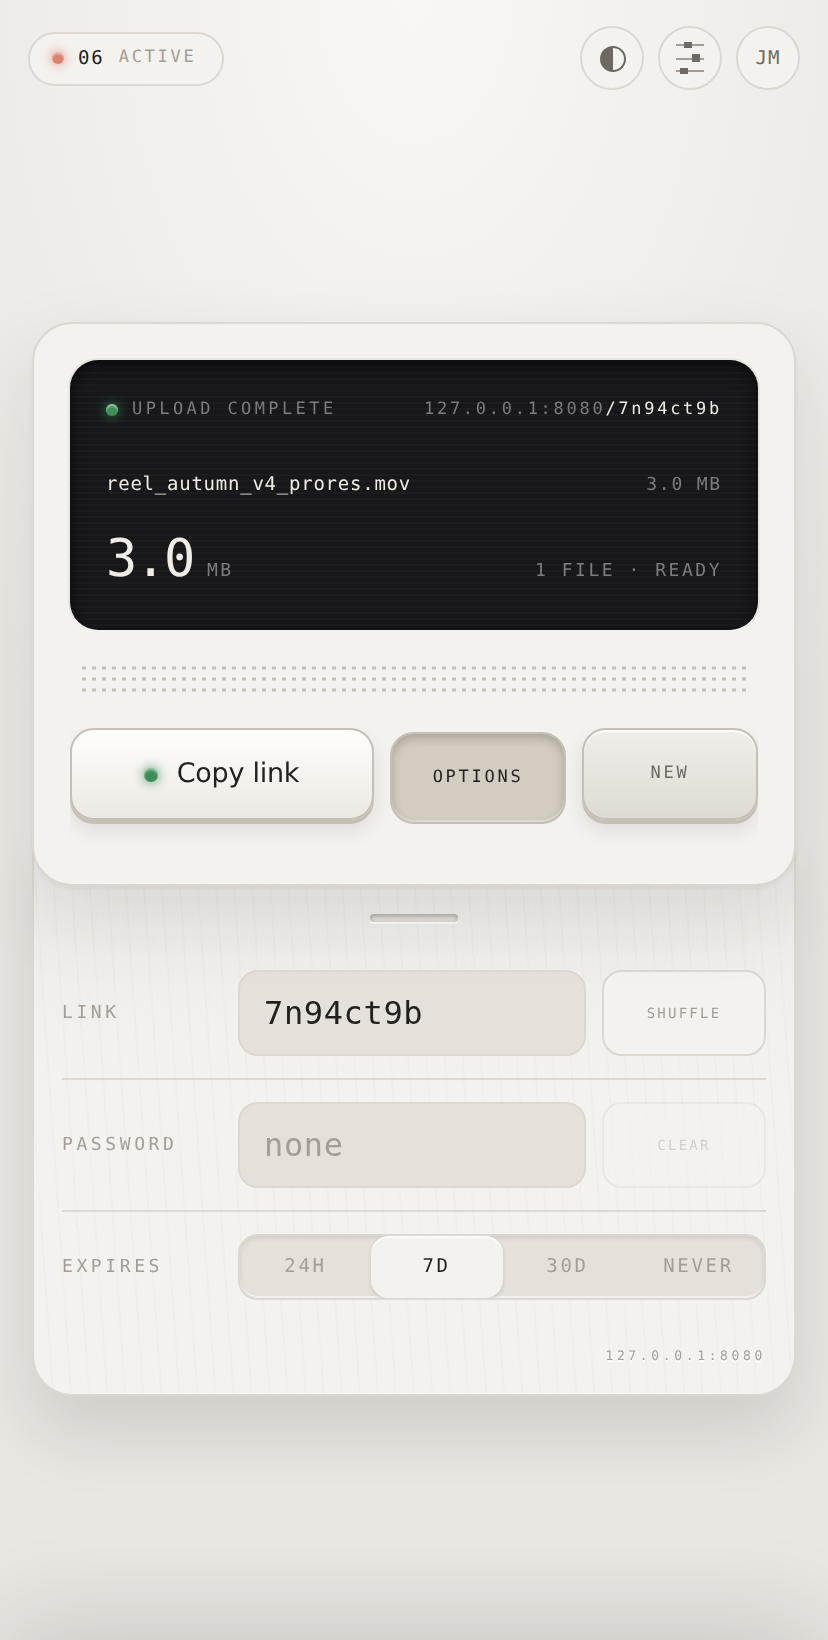
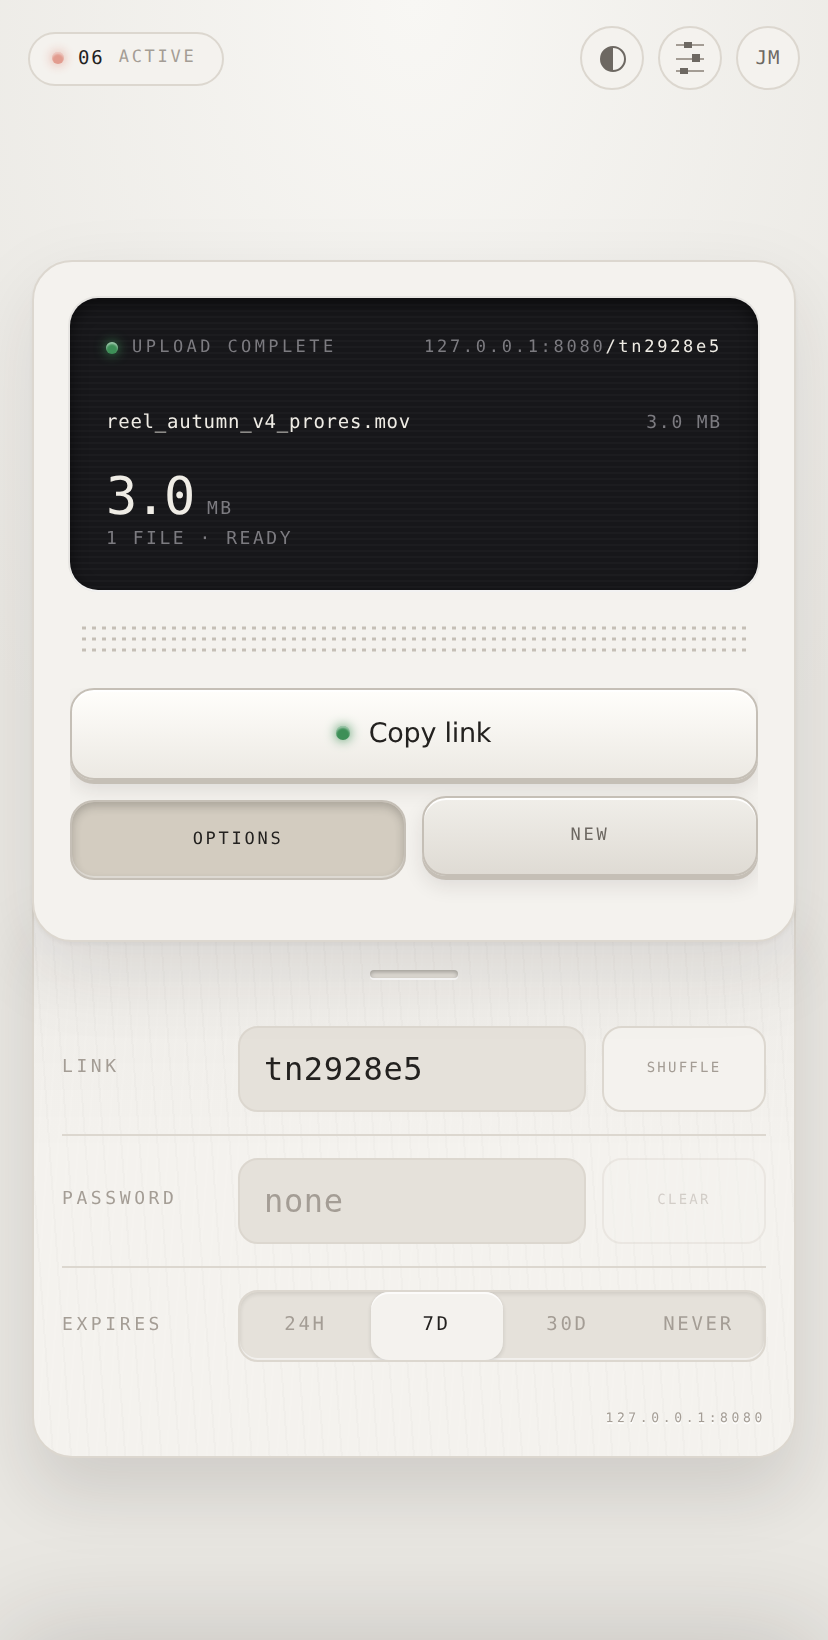
Fix five real mobile layout faults
A list that could not be reached. The transfers sheet's body is itself a
column flex container, so its children shrink by default — a list taller
than the sheet was being squeezed rather than scrolled, and .fret-list
clips its overflow to keep the row corners inside its radius, so the rows
that got squeezed out simply vanished. flex-shrink: 0 on the children
puts the height back, and min-height: 0 on the body lets it overflow
itself and scroll: with flex: 1 alone a flex item refuses to shrink below
its own content, so it never scrolls at all.

Two field sizes where there should have been one. The search field
carried its font-size in a style attribute, which no media query can
reach, so the field you are most likely to type into on a phone stayed
at 9.5px while the drawer's were at 16 — they looked unrelated, and this
one still triggered iOS's zoom-on-focus. It is a class now.

A key label cut off mid-word. A flex item will not shrink below its
content without min-width: 0, so the label pushed the key wider than its
share of the row and had the excess clipped square — "Waiting for u",
no ellipsis. And three keys abreast is a desktop row: at 393px the two
fixed 88px keys left the primary about 130px for a label that needs 135.
It takes the full width now with the other two beneath, which also makes
all three a reasonable size for a thumb.

A readout that broke mid-phrase. Rate and time remaining cannot share
[…]

diff --git a/web/src/styles/device.css b/web/src/styles/device.css
@@ -193,6 +193,7 @@
   letter-spacing: 0.14em;
   text-transform: uppercase;
   color: var(--screenDim);
+  white-space: nowrap;
 }
 
 .fret-readout__right {
@@ -203,6 +204,7 @@
   text-transform: uppercase;
   color: var(--screenDim);
   font-variant-numeric: tabular-nums;
+  white-space: nowrap;
 }
 
 /* ---------- file list on the screen ---------- */
@@ -479,6 +481,12 @@
   overflow: hidden;
   text-overflow: ellipsis;
   white-space: nowrap;
+  /*
+   * A flex item will not shrink below its content without this, so the label
+   * pushed the key wider than its share of the row and then had its overflow
+   * cut off square by the key — "Waiting for u", mid-word, no ellipsis.
+   */
+  min-width: 0;
 }
 
 /*
@@ -492,7 +500,13 @@
  */
 .fret-morph {
   position: relative;
-  display: inline-block;
+  /* Block rather than inline-block: an inline-block sizes to its text and
+     hands the key a width it cannot honour, and text-overflow has nothing to
+     act on. As a block it fills the label and truncates inside it. */
+  display: block;
+  max-width: 100%;
+  overflow: hidden;
+  text-overflow: ellipsis;
   white-space: nowrap;
 }
 
@@ -564,6 +578,48 @@
 .fret-panel {
   position: relative;
   z-index: 2;
+}
+
+/*
+ * The device on a phone.
+ *
+ * Three keys abreast is a desktop row. At 393px the two fixed 88px keys and
+ * their gaps leave the primary about 130px for a label reading "Waiting for
+ * upload" — so it truncated, and truncating the one key that reports what the
+ * device is doing is the wrong thing to give up. It gets the full width and
+ * the other two share the row beneath, which also makes all three a
+ * comfortable size for a thumb.
+ *
+ * The readout drops its right-hand figure to its own line for the same
+ * reason: rate and time remaining cannot share 290px with a 34px number and
+ * its unit, and letting it wrap where it lands broke "3 MIN REMAINING" across
+ * two lines mid-phrase. Dropping it deliberately is a layout; wrapping is an
+ * accident.
+ */
+@media (max-width: 640px) {
+  .fret-actions {
+    display: grid;
+    grid-template-columns: 1fr 1fr;
+    align-items: stretch;
+  }
+
+  .fret-actions__primary {
+    grid-column: 1 / -1;
+  }
+
+  .fret-actions__secondary {
+    width: auto;
+  }
+
+  .fret-readout {
+    flex-wrap: wrap;
+    row-gap: 1px;
+  }
+
+  .fret-readout__right {
+    margin-left: 0;
+    flex-basis: 100%;
+  }
 }
 
 /*

diff --git a/web/src/styles/sheet.css b/web/src/styles/sheet.css
@@ -98,11 +98,30 @@
 
 .fret-sheet__body {
   flex: 1;
+  /*
+   * Both of these are load-bearing, and without them the list is not merely
+   * ugly — it is unreachable.
+   *
+   * min-height: 0 because a flex item's automatic minimum size is its content
+   * size: with flex: 1 alone this box refuses to shrink below its contents, so
+   * it never overflows itself and never scrolls.
+   *
+   * flex-shrink: 0 on the children because this box is itself a column flex
+   * container. Its children shrink by default, so a list too tall to fit was
+   * being squeezed rather than scrolled — and .fret-list clips its overflow to
+   * keep the row corners inside its radius, so the rows that got squeezed out
+   * simply vanished with no way to reach them.
+   */
+  min-height: 0;
   overflow-y: auto;
   padding: 20px 18px 24px;
   display: flex;
   flex-direction: column;
   gap: 12px;
+}
+
+.fret-sheet__body > * {
+  flex-shrink: 0;
 }
 
 /*
@@ -819,12 +838,37 @@
 }
 
 /*
+ * The search field.
+ *
+ * These two declarations used to be an inline style, which meant the mobile
+ * type rules could not touch them: a media query loses to a style attribute
+ * every time. So the one field you are most likely to type into on a phone
+ * stayed at 9.5px while the drawer's fields were at 16 — the fields looked
+ * unrelated to each other, and this one still triggered iOS's zoom-on-focus.
+ */
+.fret-sheet__search {
+  border-radius: 11px;
+  font-size: 9.5px;
+}
+
+/*
  * The sheet's own mono type, lifted on a phone for the same reason as the
  * drawer's: these are the countdown, the size, the download count and the
  * four row actions — the whole reason anyone opens this list — and at 5.5px a
  * tile's unit is a smudge rather than a word.
  */
 @media (max-width: 640px) {
+  /* Same 16px floor as every other field, for the same reason. */
+  .fret-sheet__search {
+    font-size: 16px;
+  }
+
+  /* Nudged up with everything else, so the search field is not the largest
+     text on a screen whose whole job is the list beneath it. */
+  .fret-row__title {
+    font-size: 14.5px;
+  }
+
   .fret-row__meta,
   .fret-stat__label {
     font-size: 8.5px;

diff --git a/web/src/styles/controls.css b/web/src/styles/controls.css
@@ -379,6 +379,13 @@
   letter-spacing: 0.14em;
   text-transform: uppercase;
   padding: 7px 4px;
+  /*
+   * Stated rather than inherited, so the track is the same height wherever it
+   * appears. Left to the font's own metrics it came out a fraction taller in
+   * the drawer than in the sheet — half a pixel, invisible alone and obvious
+   * the moment two of them sit near each other.
+   */
+  line-height: 1.5;
   cursor: pointer;
   outline: none;
   transition: color var(--durFast) ease;

diff --git a/web/src/components/TransfersSheet.tsx b/web/src/components/TransfersSheet.tsx
@@ -249,11 +249,10 @@ export function TransfersSheet({
           </div>
 
           <input
-            className="fret-field"
+            className="fret-field fret-sheet__search"
             placeholder={t('sheet.search')}
             value={query}
             onChange={(e) => setQuery(e.target.value)}
-            style={{ borderRadius: 11, fontSize: 9.5 }}
             tabIndex={open ? 0 : -1}
           />
 
